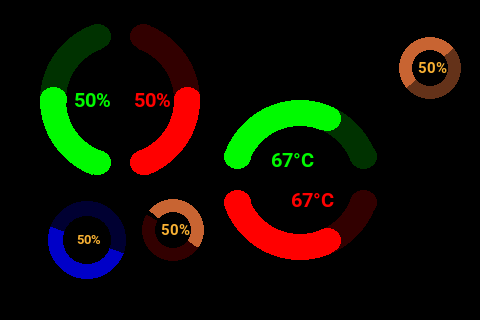
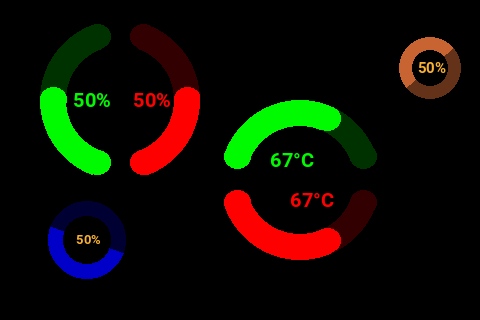
[GitHub Actions Bot] Update theme previews

diff --git a/res/themes/themes.md b/res/themes/themes.md
@@ -9,7 +9,7 @@
 [5" themes](#5-themes)
 
 ## 3.5" themes
-<table><td>3.5inchTheme2<img src="https://raw.githubusercontent.com/mathoudebine/turing-smart-screen-python/main/res/themes/3.5inchTheme2/preview.png" width="150"/></td><td>bash-dark-green<img src="https://raw.githubusercontent.com/mathoudebine/turing-smart-screen-python/main/res/themes/bash-dark-green/preview.png" width="150"/></td><td>bash-dark-green-gpu<img src="https://raw.githubusercontent.com/mathoudebine/turing-smart-screen-python/main/res/themes/bash-dark-green-gpu/preview.png" width="150"/></td><td>BigClock<img src="https://raw.githubusercontent.com/mathoudebine/turing-smart-screen-python/main/res/themes/BigClock/preview.png" width="150"/></td><td>CustomDataExample<img src="https://raw.githubusercontent.com/mathoudebine/turing-smart-screen-python/main/res/themes/CustomDataExample/preview.png" width="150"/></td></table><table><td>Cyberdeck<img src="https://raw.githubusercontent.com/mathoudebine/turing-smart-screen-python/main/res/themes/Cyberdeck/preview.png" width="150"/></td><td>Cyberpunk<img src="https://raw.githubusercontent.com/mathoudebine/turing-smart-screen-python/main/res/themes/Cyberpunk/preview.png" width="150"/></td><td>Cyberpunk-net<img src="https://raw.githubusercontent.com/mathoudebine/turing-smart-screen-python/main/res/themes/Cyberpunk-net/preview.png" width="150"/></td><td>Landscape6Grid<img src="https://raw.githubusercontent.com/mathoudebine/turing-smart-screen-python/main/res/themes/Landscape6Grid/preview.png" width="150"/></td><td>LandscapeEarth<img src="https://raw.githubusercontent.com/mathoudebine/turing-smart-screen-python/main/res/themes/LandscapeEarth/preview.png" width="150"/></td></table><table><td>LandscapeMagicBlue<img src="https://raw.githubusercontent.com/mathoudebine/turing-smart-screen-python/main/res/themes/LandscapeMagicBlue/preview.png" width="150"/></td><td>LandscapeModernDevice35<img src="https://raw.githubusercontent.com/mathoudebine/turing-smart-screen-python/main/res/themes/LandscapeModernDevice35/preview.png" width="150"/></td><td>Terminal<img src="https://raw.githubusercontent.com/mathoudebine/turing-smart-screen-python/main/res/themes/Terminal/preview.png" width="150"/></td></table>
+<table><td>3.5inchTheme2<img src="https://raw.githubusercontent.com/mathoudebine/turing-smart-screen-python/main/res/themes/3.5inchTheme2/preview.png" width="150"/></td><td>Advanced Radials Test<img src="https://raw.githubusercontent.com/mathoudebine/turing-smart-screen-python/main/res/themes/Advanced Radials Test/preview.png" width="150"/></td><td>bash-dark-green<img src="https://raw.githubusercontent.com/mathoudebine/turing-smart-screen-python/main/res/themes/bash-dark-green/preview.png" width="150"/></td><td>bash-dark-green-gpu<img src="https://raw.githubusercontent.com/mathoudebine/turing-smart-screen-python/main/res/themes/bash-dark-green-gpu/preview.png" width="150"/></td><td>BigClock<img src="https://raw.githubusercontent.com/mathoudebine/turing-smart-screen-python/main/res/themes/BigClock/preview.png" width="150"/></td></table><table><td>CustomDataExample<img src="https://raw.githubusercontent.com/mathoudebine/turing-smart-screen-python/main/res/themes/CustomDataExample/preview.png" width="150"/></td><td>Cyberdeck<img src="https://raw.githubusercontent.com/mathoudebine/turing-smart-screen-python/main/res/themes/Cyberdeck/preview.png" width="150"/></td><td>Cyberpunk<img src="https://raw.githubusercontent.com/mathoudebine/turing-smart-screen-python/main/res/themes/Cyberpunk/preview.png" width="150"/></td><td>Cyberpunk-net<img src="https://raw.githubusercontent.com/mathoudebine/turing-smart-screen-python/main/res/themes/Cyberpunk-net/preview.png" width="150"/></td><td>Landscape6Grid<img src="https://raw.githubusercontent.com/mathoudebine/turing-smart-screen-python/main/res/themes/Landscape6Grid/preview.png" width="150"/></td></table><table><td>LandscapeEarth<img src="https://raw.githubusercontent.com/mathoudebine/turing-smart-screen-python/main/res/themes/LandscapeEarth/preview.png" width="150"/></td><td>LandscapeMagicBlue<img src="https://raw.githubusercontent.com/mathoudebine/turing-smart-screen-python/main/res/themes/LandscapeMagicBlue/preview.png" width="150"/></td><td>LandscapeModernDevice35<img src="https://raw.githubusercontent.com/mathoudebine/turing-smart-screen-python/main/res/themes/LandscapeModernDevice35/preview.png" width="150"/></td><td>Terminal<img src="https://raw.githubusercontent.com/mathoudebine/turing-smart-screen-python/main/res/themes/Terminal/preview.png" width="150"/></td></table>
 
 ## 5" themes
 <table><td>5inchTheme2<img src="https://raw.githubusercontent.com/mathoudebine/turing-smart-screen-python/main/res/themes/5inchTheme2/preview.png" width="150"/></td><td>5inchTheme2Radial<img src="https://raw.githubusercontent.com/mathoudebine/turing-smart-screen-python/main/res/themes/5inchTheme2Radial/preview.png" width="150"/></td><td>ColoredFlat<img src="https://raw.githubusercontent.com/mathoudebine/turing-smart-screen-python/main/res/themes/ColoredFlat/preview.png" width="150"/></td><td>CyanTheme<img src="https://raw.githubusercontent.com/mathoudebine/turing-smart-screen-python/main/res/themes/CyanTheme/preview.png" width="150"/></td><td>DragonBall5inch<img src="https://raw.githubusercontent.com/mathoudebine/turing-smart-screen-python/main/res/themes/DragonBall5inch/preview.png" width="150"/></td></table><table><td>Landscape15Grid<img src="https://raw.githubusercontent.com/mathoudebine/turing-smart-screen-python/main/res/themes/Landscape15Grid/preview.png" width="150"/></td><td>NZXT_B<img src="https://raw.githubusercontent.com/mathoudebine/turing-smart-screen-python/main/res/themes/NZXT_B/preview.png" width="150"/></td><td>NZXT_BLUR<img src="https://raw.githubusercontent.com/mathoudebine/turing-smart-screen-python/main/res/themes/NZXT_BLUR/preview.png" width="150"/></td><td>NZXT_C<img src="https://raw.githubusercontent.com/mathoudebine/turing-smart-screen-python/main/res/themes/NZXT_C/preview.png" width="150"/></td><td>NZXT_color<img src="https://raw.githubusercontent.com/mathoudebine/turing-smart-screen-python/main/res/themes/NZXT_color/preview.png" width="150"/></td></table><table><td>NZXT_dynamic<img src="https://raw.githubusercontent.com/mathoudebine/turing-smart-screen-python/main/res/themes/NZXT_dynamic/preview.png" width="150"/></td><td>PurpleTheme<img src="https://raw.githubusercontent.com/mathoudebine/turing-smart-screen-python/main/res/themes/PurpleTheme/preview.png" width="150"/></td><td>TaskManager5inch<img src="https://raw.githubusercontent.com/mathoudebine/turing-smart-screen-python/main/res/themes/TaskManager5inch/preview.png" width="150"/></td></table>